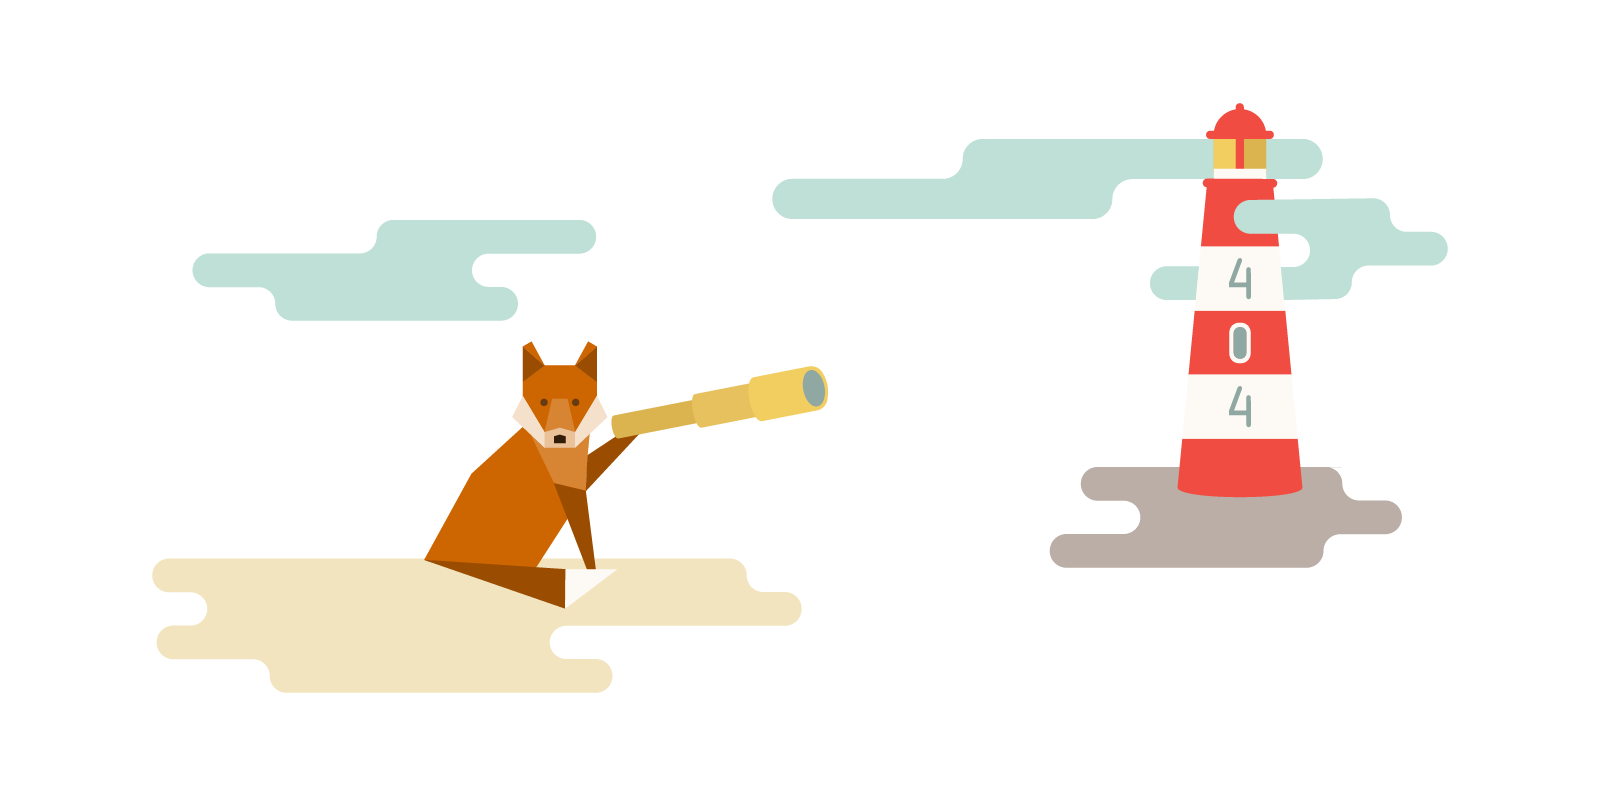
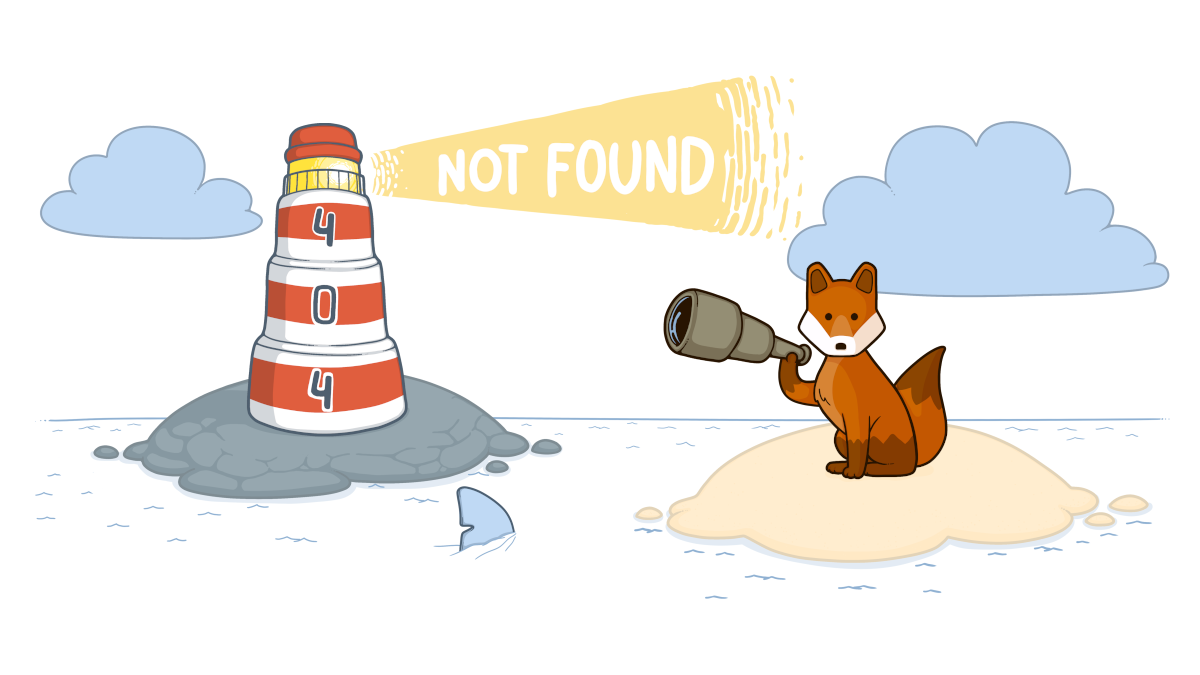
[errors] Improve 404 page

diff --git a/error.vue b/error.vue
@@ -2,9 +2,13 @@
   <div class="section content has-text-centered mt4">
     <img src="~/assets/images/404.png" width="900">
 
-    <h1 class="mt4" v-if="error.statusCode === 404">Page not found</h1>
+    <h1
+      class="mt4"
+      v-if="error.statusCode === 404">
+        The page you were looking for could not be found...
+    </h1>
     <h1 v-else>An error occurred - {{ error.statusCode }} </h1>
-    <NuxtLink to="/">Go back to home page</NuxtLink>
+    <NuxtLink class="home-link" to="/">Go to home page</NuxtLink>
   </div>
 </template>
 
@@ -15,3 +19,14 @@
   }
 </script>
 
+<style scoped>
+h1 {
+  font-size: 1.8rem;
+  font-weight: bold;
+}
+
+.home-link {
+  font-weight: bold;
+  font-size: 1.8rem;
+}
+</style>
